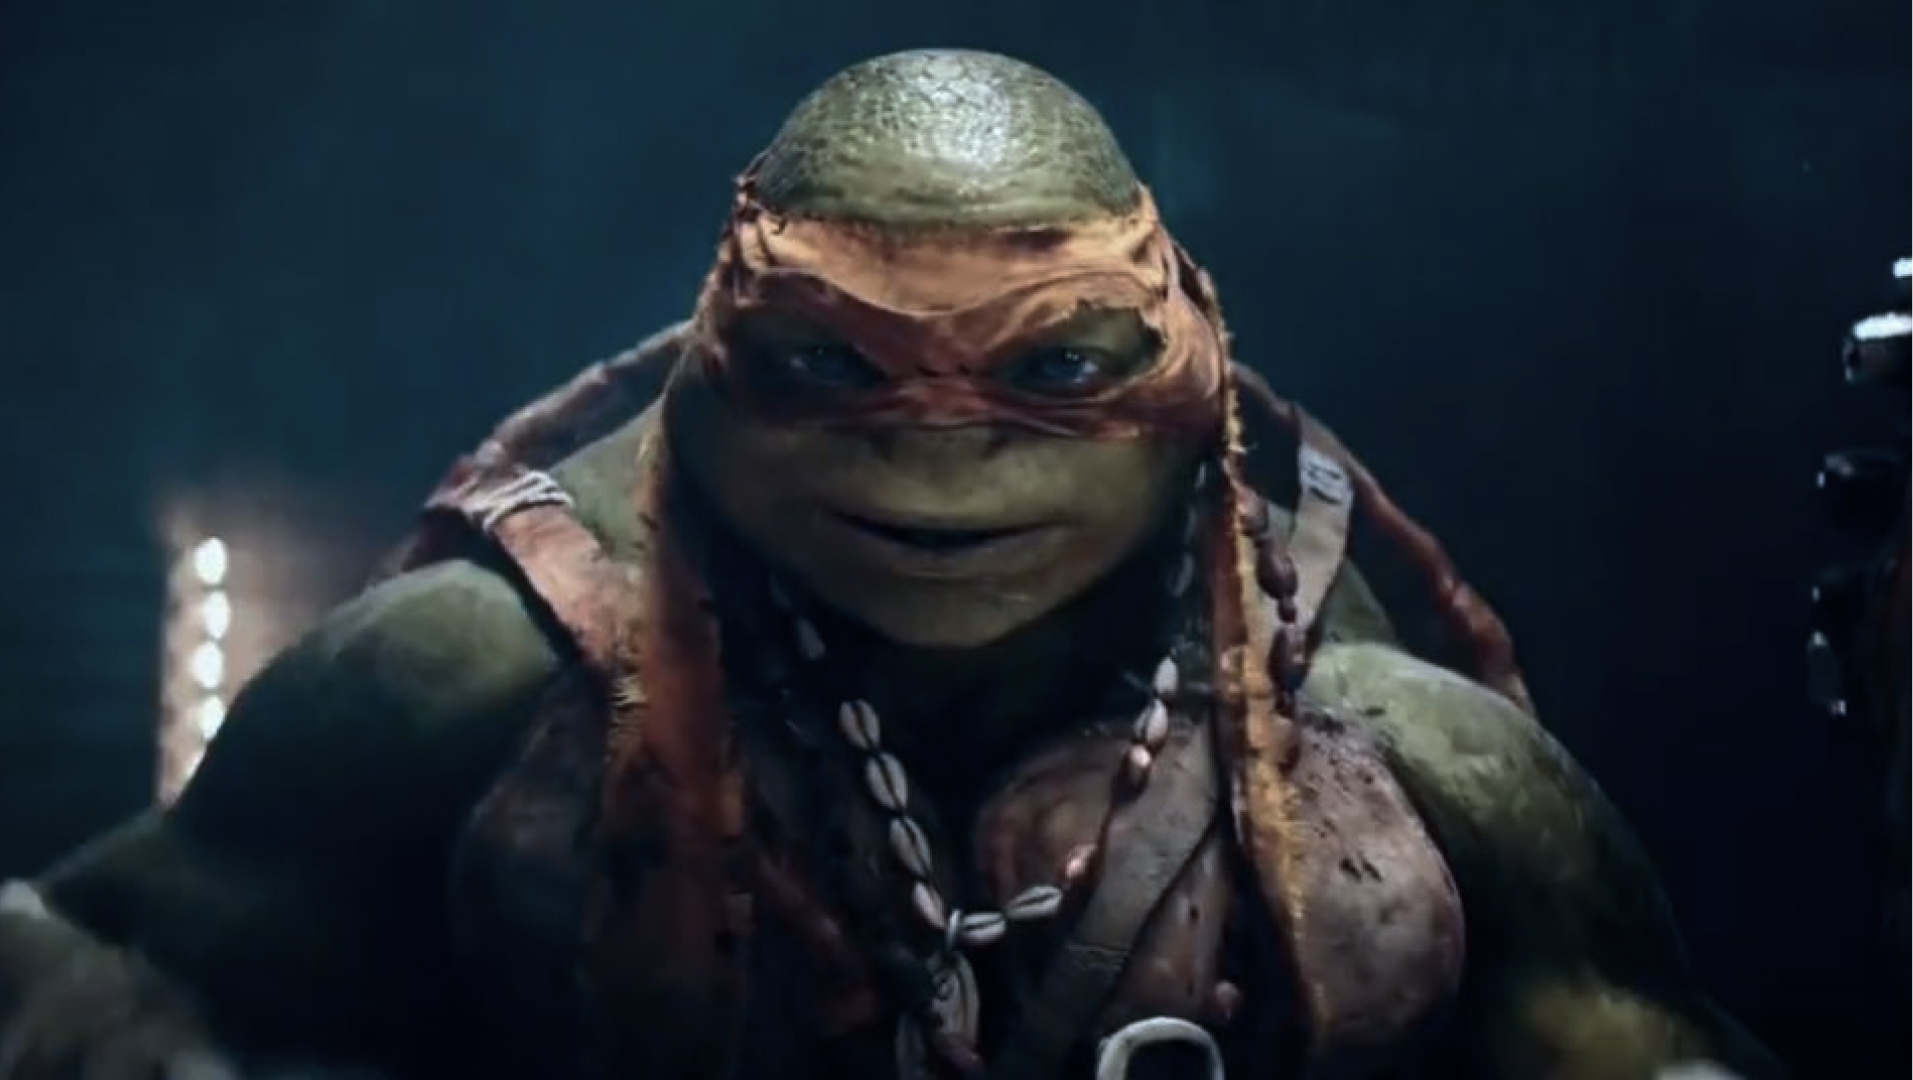
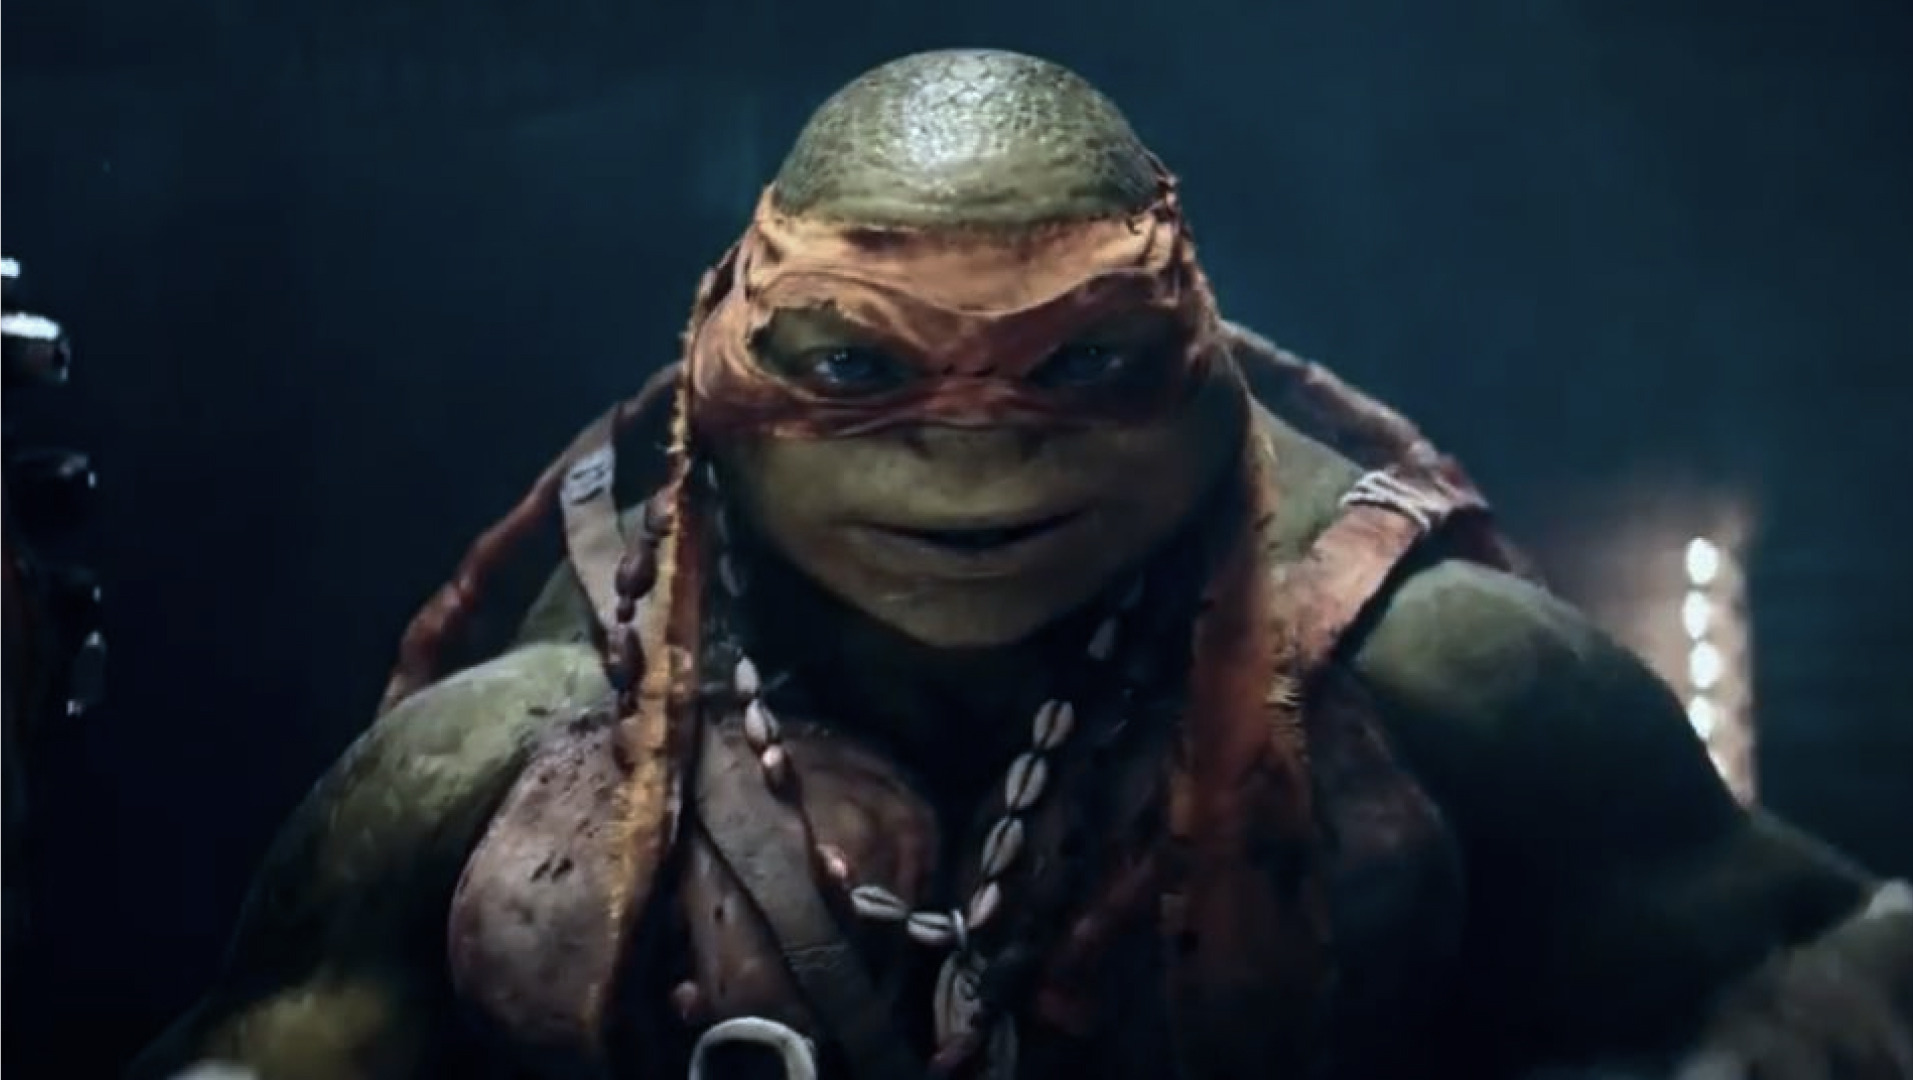
stye snes section

diff --git a/src/scss/components/_snes.scss b/src/scss/components/_snes.scss
@@ -1,0 +1,76 @@
+.snes-section {
+    .container {
+        position: relative;
+    }
+    .section__bg {
+        width: 100 * $size;
+        height: 100vh;
+        left: 12 * $size;
+    }
+    .section__subtitle {
+        color: $primary-color;
+        font-size: 3 * $size;
+    }
+    .section__caption {
+        width: 60 * $size;
+        flex-direction: column;
+        margin-bottom: 7 * $size;
+    }
+    .section__title {
+        transform: unset;
+        line-height: 1.5;
+    }
+    .section__description {
+        position: absolute;
+        width: 60 * $size;
+        left: 50%;
+        top: 10%;
+        margin-bottom: 5 * $size;
+    }
+    .button {
+        position: absolute;
+        left: 50%;
+        top: 35%;
+        width: 25%;
+    }
+    .row.bottom {
+        margin-left: auto;
+        flex-direction: column;
+    }
+    .section__gallery {
+        margin-bottom: 2 * $size;
+    }
+    .section__rom-name {
+        height: 8 * $size;
+        align-self: center;
+    }
+}
+@include responsive(1600px) {
+    $size: $size-md;
+    .snes-section {
+        .section__bg {
+            width: 100 * $size;
+            height: 100vh;
+            left: 12 * $size;
+        }
+        .section__subtitle {
+            font-size: 3 * $size;
+        }
+        .section__caption {
+            width: 60 * $size;
+            margin-bottom: 3 * $size;
+        }
+        .section__title {
+            font-size: 7 * $size;
+        }
+        .section__description {
+            width: 60 * $size;
+        }
+        .section__gallery {
+            margin-bottom: 2 * $size;
+        }
+        .row.bottom {
+            margin-left: 35 * $size;
+        }
+    }
+}

diff --git a/src/scss/components/_social.scss b/src/scss/components/_social.scss
@@ -3,21 +3,15 @@
     z-index: $gold-lever;
     left: 0;
     padding: 2 * $size;
-    top: 60%;
+    top: 50%;
     transform: translateY(-50%);
     @include flex(center, column);
     &__item {
         width: 3 * $size;
         margin: 1.5 * $size 0;
-    }
-    &::after {
-        content: "";
-        background: $sub-color;
-        position: absolute;
-        width: 100%;
-        height: 90%;
-        z-index: -1;
-        bottom: 60%;
-        left: 0;
+        transition: transform 200ms ease;
+        &:hover {
+            transform: scale(1.5);
+        }
     }
 }

diff --git a/src/scss/components/_section.scss b/src/scss/components/_section.scss
@@ -3,10 +3,12 @@
     height: 100vh;
     display: flex;
     align-items: center;
+    .container {
+        margin-top: 15vh;
+    }
     &__caption {
         text-transform: capitalize;
         font-size: 7 * $size;
-        margin-top: 10vh;
     }
     &__subtitle {
         font-family: $sub-font;
@@ -21,7 +23,6 @@
         font-family: $sub-font;
     }
     .row.bottom {
-        position: relative;
         width: max-content;
     }
     &__bg {

diff --git a/src/data/snes.js b/src/data/snes.js
@@ -17,7 +17,7 @@ const SNES = {
     "contra - aliens war",
     "teenage mutant ninja turtles - turtles in time",
   ],
-  coodinates: ["0% 0%", "0% 0%", "0% 0%", "0% 0%"],
+  coodinates: ["0% 0%", "80% 0%", "80% 0%", "10% 0%"],
 };
 
 export default SNES;

diff --git a/src/scss/components/_psp.scss b/src/scss/components/_psp.scss
@@ -15,6 +15,9 @@
         height: 100vh;
         right: 5.5 * $size;
     }
+    .section__rom-name {
+        margin-left: 2 * $size;
+    }
 }
 @include responsive(1600px) {
     $size: $size-md;

diff --git a/src/scss/components/_rom-name.scss b/src/scss/components/_rom-name.scss
@@ -1,7 +1,5 @@
 .section {
     &__rom-name {
-        @include absoluteCenter("ver");
-        left: 103%;
         width: 50 * $size;
         @include flex(center, row);
         .text {

diff --git a/src/scss/main.scss b/src/scss/main.scss
@@ -13,3 +13,4 @@
 @import "./components/social";
 @import "./components/indicator";
 @import "./components/psp";
+@import "./components/snes";
